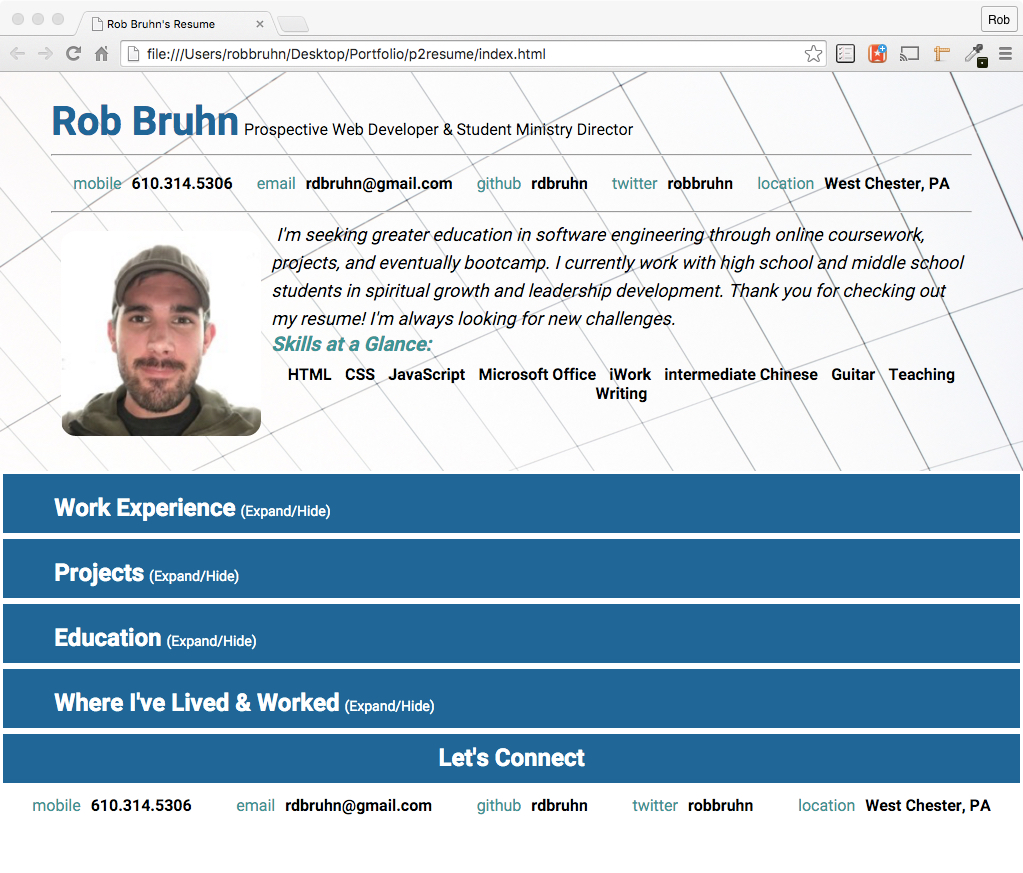
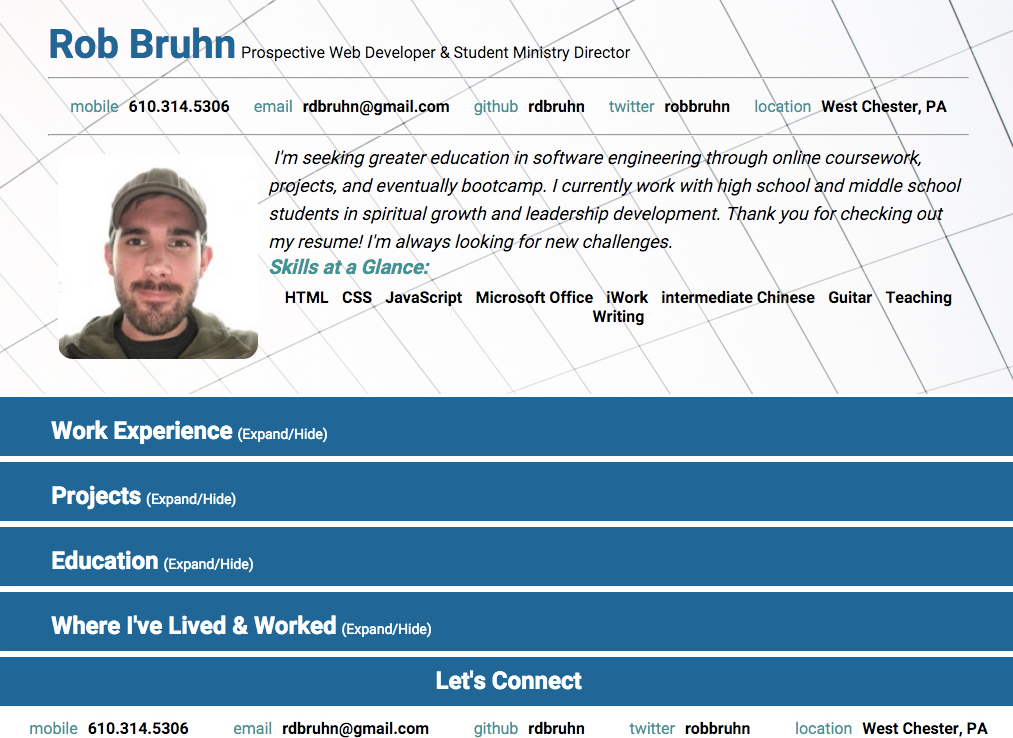
(enhancement) Optomize images, fix footer class for consistency

diff --git a/client/pages/contact.html b/client/pages/contact.html
@@ -42,12 +42,14 @@
                     <div style="font-family: 'Poiret One';font-size: 12px;color: white; background-color: #621A19; padding-top: 5px;">Powered by <a href="http://www.typeform.com/?utm_campaign=typeform_Z8XI0x&amp;utm_source=website&amp;utm_medium=typeform&amp;utm_content=typeform-embedded&amp;utm_term=English" style="color: white; background-color: #621A19;" target="_blank">Typeform</a></div>
                 </div>
             <div id="footer" class="row">
+                 <div class="col-md-12">    
                     <ul>
                         <li><a href="https://github.com/rdbruhn" target="_blank">GitHub</a></li>
                         <li><a href="http://twitter.com/robbruhn" target="_blank">Twitter</a></li>
                         <li><a href="http://blog.modulomoments.com" target="_blank">Blog</a></li>
                         <li><a href="http://www.linkedin.com/in/rdbruhn" target="_blank">LinkedIn</a></li>
                     </ul>
+                </div>
             </div>
         </div>
     </body>

diff --git a/client/pages/about.html b/client/pages/about.html
@@ -39,12 +39,14 @@
                 <p>I'm a software engineer with a strong foundation in Javascript. I've built, enhanced, and deployed applications using Angular, Backbone, Node, Express, MongoDB, RethinkDB, MySQL, etc. I'm currently interested in part-time or contract work and will be seeking full-time employment Aug. 29th. Thanks for visiting!</p>    
             </div>
             <div id="footer" class="row">
+                <div class="col-md-12">
                     <ul>
                         <li><a href="https://github.com/rdbruhn" target="_blank">GitHub</a></li>
                         <li><a href="http://twitter.com/robbruhn" target="_blank">Twitter</a></li>
                         <li><a href="http://blog.modulomoments.com" target="_blank">Blog</a></li>
                         <li><a href="http://www.linkedin.com/in/rdbruhn" target="_blank">LinkedIn</a></li>
                     </ul>
+                </div>
             </div>
         </div>
     </body>

diff --git a/client/index.html b/client/index.html
@@ -63,7 +63,7 @@
                 <div class="project col-md-4">
                     <a href="https://github.com/rdbruhn/resume" target="_blank">
                         <h2>Online Resume</h2>
-                        <img src="../img/Resume.jpg" alt="Online Resume Screen Shot">
+                        <img src="../img/Resume.png" alt="Online Resume Screen Shot">
                     </a>
                 </div>
                 <div class="project col-md-4">
